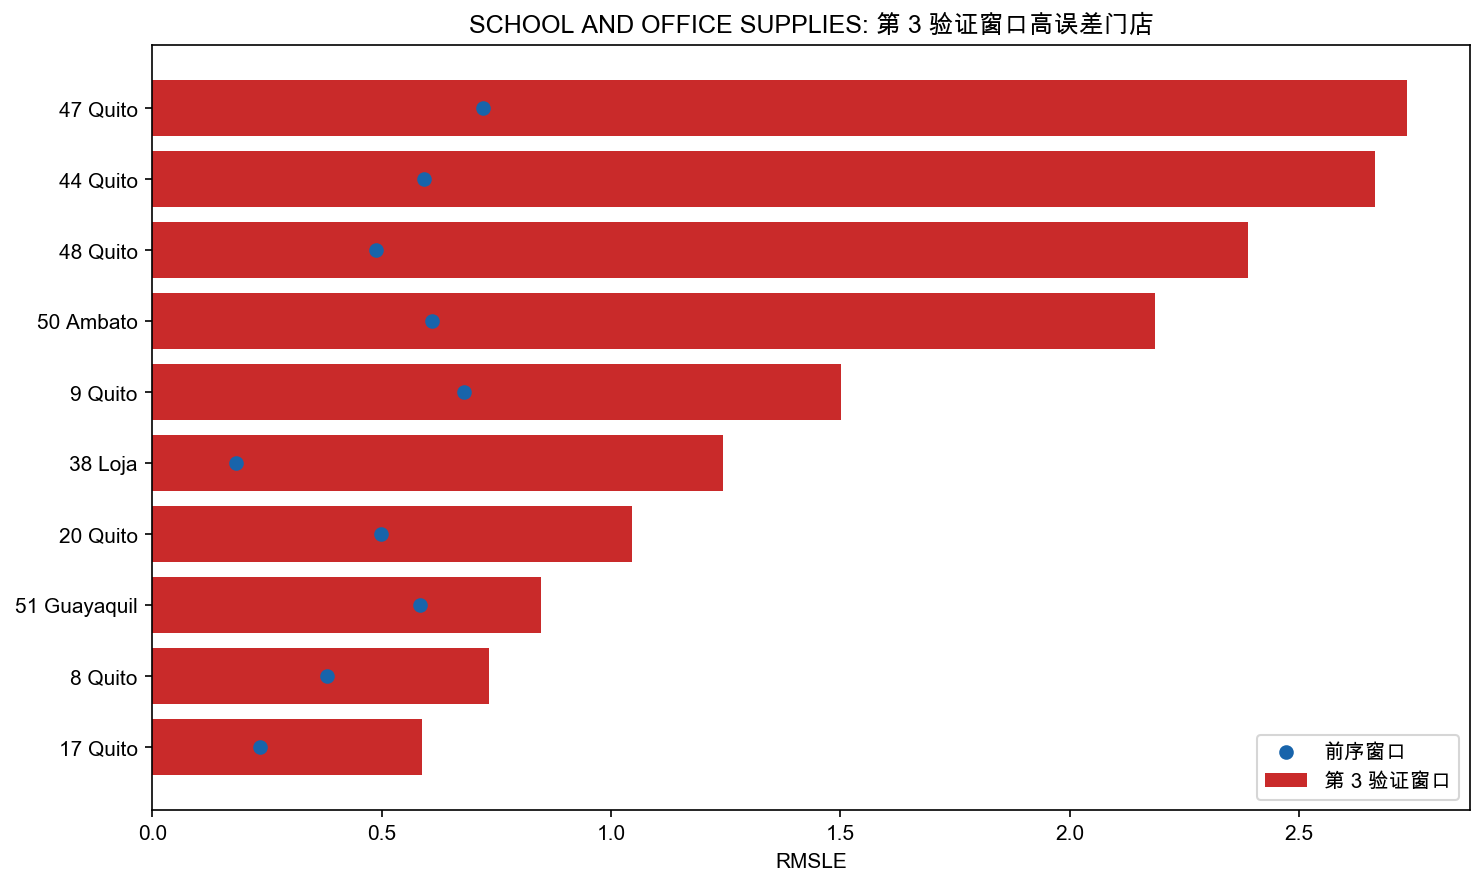
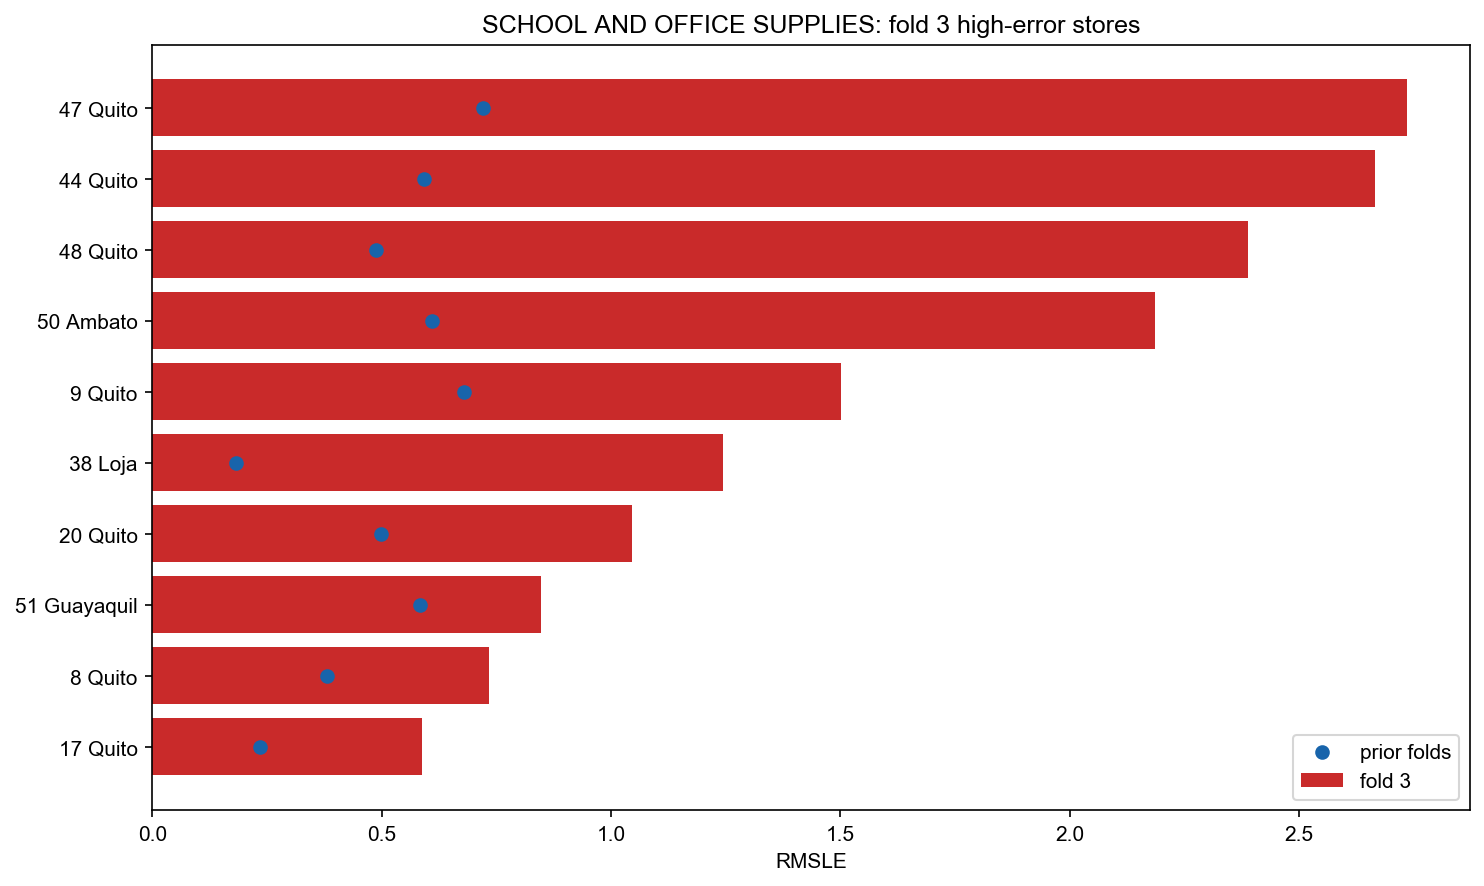
docs: align family focus report style

Changed region(s): [[0.31, 0.0, 0.7749, 0.0609], [0.8369, 0.8228, 0.9919, 0.9142]]

diff --git a/src/store_sales/family_focus_analysis.py b/src/store_sales/family_focus_analysis.py
@@ -31,35 +31,35 @@ plt.rcParams["axes.unicode_minus"] = False
 DEFAULT_FAMILY = "SCHOOL AND OFFICE SUPPLIES"
 SUPPORTED_TARGET_FOLD = 3
 REPORT_COLUMN_NAMES = {
-    "fold_id": "验证窗口",
-    "row_count": "样本数",
+    "fold_id": "fold",
+    "row_count": "rows",
     "rmsle": "RMSLE",
-    "mean_actual_sales": "真实销量均值",
-    "mean_predicted_sales": "预测销量均值",
-    "mean_signed_error": "平均预测误差",
-    "mean_onpromotion": "促销数量均值",
+    "mean_actual_sales": "actual sales 均值",
+    "mean_predicted_sales": "predicted sales 均值",
+    "mean_signed_error": "signed error 均值",
+    "mean_onpromotion": "onpromotion 均值",
     "year": "年份",
     "month": "月份",
-    "total_sales": "总销量",
-    "promotion_sum": "促销数量合计",
-    "mean_sales": "销量均值",
-    "store_nbr": "门店编号",
+    "total_sales": "total sales",
+    "promotion_sum": "promotion sum",
+    "mean_sales": "sales 均值",
+    "store_nbr": "store_nbr",
     "city": "城市",
-    "store_type": "门店类型",
-    "cluster": "门店簇",
-    "promotion_bin": "促销分箱",
-    "fold3_row_count": "第 3 窗口样本数",
-    "fold3_rmsle": "第 3 窗口 RMSLE",
-    "prior_rmsle": "前序窗口 RMSLE",
+    "store_type": "store_type",
+    "cluster": "cluster",
+    "promotion_bin": "promotion bin",
+    "fold3_row_count": "fold 3 rows",
+    "fold3_rmsle": "fold 3 RMSLE",
+    "prior_rmsle": "prior folds RMSLE",
     "rmsle_delta": "RMSLE 差值",
-    "fold3_error_share": "第 3 窗口误差占比",
-    "fold3_mean_actual_sales": "第 3 窗口真实销量均值",
-    "fold3_mean_predicted_sales": "第 3 窗口预测销量均值",
-    "fold3_mean_onpromotion": "第 3 窗口促销数量均值",
-    "test_row_count": "测试期样本数",
-    "test_mean_onpromotion": "测试期促销数量均值",
-    "test_promotion_sum": "测试期促销数量合计",
-    "has_fold3_error_signal": "是否有第 3 窗口误差信号",
+    "fold3_error_share": "fold 3 误差占比",
+    "fold3_mean_actual_sales": "fold 3 actual sales 均值",
+    "fold3_mean_predicted_sales": "fold 3 predicted sales 均值",
+    "fold3_mean_onpromotion": "fold 3 onpromotion 均值",
+    "test_row_count": "test rows",
+    "test_mean_onpromotion": "test onpromotion 均值",
+    "test_promotion_sum": "test promotion sum",
+    "has_fold3_error_signal": "是否有 fold 3 误差信号",
 }
 
 
@@ -350,13 +350,13 @@ def plot_2017_daily(daily: pd.DataFrame, paths: FamilyFocusPaths, family: str) -
     train_part = daily[daily["period"] != "test"].copy()
     fig, ax_sales = plt.subplots(figsize=(14, 6))
     ax_promo = ax_sales.twinx()
-    ax_sales.plot(train_part["date"], train_part["total_sales"], color="#0b7285", linewidth=2, label="总销量")
-    ax_promo.plot(daily["date"], daily["promotion_sum"], color="#f08c00", linewidth=1.5, label="促销数量合计")
-    ax_sales.axvspan(pd.Timestamp("2017-07-31"), pd.Timestamp("2017-08-15"), color="#ffe066", alpha=0.25, label="第 3 验证窗口")
-    ax_sales.axvspan(pd.Timestamp("2017-08-16"), pd.Timestamp("2017-08-31"), color="#d0ebff", alpha=0.25, label="测试期")
-    ax_sales.set_title(f"{family}: 2017 年每日销量与促销")
-    ax_sales.set_ylabel("总销量")
-    ax_promo.set_ylabel("促销数量合计")
+    ax_sales.plot(train_part["date"], train_part["total_sales"], color="#0b7285", linewidth=2, label="total sales")
+    ax_promo.plot(daily["date"], daily["promotion_sum"], color="#f08c00", linewidth=1.5, label="promotion sum")
+    ax_sales.axvspan(pd.Timestamp("2017-07-31"), pd.Timestamp("2017-08-15"), color="#ffe066", alpha=0.25, label="fold 3")
+    ax_sales.axvspan(pd.Timestamp("2017-08-16"), pd.Timestamp("2017-08-31"), color="#d0ebff", alpha=0.25, label="test period")
+    ax_sales.set_title(f"{family}: 2017 daily sales 与 promotion")
+    ax_sales.set_ylabel("total sales")
+    ax_promo.set_ylabel("promotion sum")
     ax_sales.xaxis.set_major_locator(mdates.MonthLocator(interval=1))
     ax_sales.xaxis.set_major_formatter(mdates.DateFormatter("%Y-%m"))
     ax_sales.legend(loc="upper left")
@@ -369,12 +369,12 @@ def plot_monthly_history(monthly: pd.DataFrame, paths: FamilyFocusPaths, family:
     fig, ax = plt.subplots(figsize=(12, 6))
     for year, frame in monthly.groupby("year", observed=True):
         ax.plot(frame["month"], frame["total_sales"], marker="o", linewidth=1.8, label=str(year))
-    ax.set_title(f"{family}: 按年份对比月度总销量")
+    ax.set_title(f"{family}: monthly total sales by year")
     ax.set_xlabel("月份")
-    ax.set_ylabel("总销量")
+    ax.set_ylabel("total sales")
     ax.set_xticks(range(1, 13))
     ax.grid(axis="y", alpha=0.25)
-    ax.legend(title="年份", ncols=3)
+    ax.legend(title="year", ncols=3)
     save_plot(paths.figures_dir / "monthly_sales_by_year.png")
 
 
@@ -382,9 +382,9 @@ def plot_fold3_top_stores(store_error: pd.DataFrame, paths: FamilyFocusPaths, fa
     top = store_error.head(10).sort_values("fold3_rmsle")
     labels = top["store_nbr"].astype(str) + " " + top["city"].astype(str)
     fig, ax = plt.subplots(figsize=(10, 6))
-    ax.barh(labels, top["fold3_rmsle"], color="#c92a2a", label="第 3 验证窗口")
-    ax.scatter(top["prior_rmsle"], labels, color="#1864ab", label="前序窗口", zorder=3)
-    ax.set_title(f"{family}: 第 3 验证窗口高误差门店")
+    ax.barh(labels, top["fold3_rmsle"], color="#c92a2a", label="fold 3")
+    ax.scatter(top["prior_rmsle"], labels, color="#1864ab", label="prior folds", zorder=3)
+    ax.set_title(f"{family}: fold 3 high-error stores")
     ax.set_xlabel("RMSLE")
     ax.legend()
     save_plot(paths.figures_dir / "fold3_top_store_error.png")
@@ -481,27 +481,27 @@ def write_report(
     store_promotion_display = rename_columns_for_report(store_promotion_error[store_promotion_columns])
     new_store_promotion_display = rename_columns_for_report(new_store_promotion[new_columns])
     top_test_overlap_display = rename_columns_for_report(top_test_overlap[test_columns])
-    if "是否有第 3 窗口误差信号" in top_test_overlap_display.columns:
-        top_test_overlap_display["是否有第 3 窗口误差信号"] = top_test_overlap_display["是否有第 3 窗口误差信号"].map(
+    if "是否有 fold 3 误差信号" in top_test_overlap_display.columns:
+        top_test_overlap_display["是否有 fold 3 误差信号"] = top_test_overlap_display["是否有 fold 3 误差信号"].map(
             {True: "是", False: "否"}
         )
 
     lines = [
-        f"# 品类单独分析：{family}",
+        f"# Family 单独分析：{family}",
         "",
-        "本报告是在第 3 验证窗口交叉误差分析之后，对单个品类做诊断。它只用于定位问题，不改变模型，也不生成新的提交文件。",
+        "本报告是在 fold 3 交叉误差分析之后，对单个 family 做诊断。它只用于定位问题，不改变模型，也不生成新的 submission。",
         "",
         "## 核心发现",
         "",
-        f"- 2017 年 8 月该品类总销量为 `{focus_2017_august['total_sales']:.0f}`，明显高于 2017 年 7 月和历史 8 月低位。",
-        f"- 第 3 验证窗口误差集中在 `{family}` 的高促销、type A / Quito-Ambato 门店片段。",
-        f"- 第 3 验证窗口误差最高的门店片段是 `{store_error.iloc[0]['city']}` 的门店 `{int(store_error.iloc[0]['store_nbr'])}`。",
-        "- 测试期 type A 门店仍有较高促销，因此这个品类仍然是提交风险点。",
+        f"- 2017 年 8 月该 family total sales 为 `{focus_2017_august['total_sales']:.0f}`，明显高于 2017 年 7 月和历史 8 月低位。",
+        f"- fold 3 误差集中在 `{family}` 的 high promotion、type A / Quito-Ambato store 片段。",
+        f"- fold 3 误差最高的 store 片段是 `{store_error.iloc[0]['city']}` 的 store `{int(store_error.iloc[0]['store_nbr'])}`。",
+        "- test period 中 type A stores 仍有较高 promotion，因此这个 family 仍然是 submission risk。",
     ]
     if top_new is not None:
         lines.append(
-            f"- 最强第 3 验证窗口新组合是门店 `{int(top_new['store_nbr'])}` + 促销分箱 `{top_new['promotion_bin']}`，"
-            f"真实销量均值 `{top_new['fold3_mean_actual_sales']:.1f}`，预测销量均值 `{top_new['fold3_mean_predicted_sales']:.1f}`。"
+            f"- 最强 fold 3 新组合是 store `{int(top_new['store_nbr'])}` + promotion bin `{top_new['promotion_bin']}`，"
+            f"actual sales 均值 `{top_new['fold3_mean_actual_sales']:.1f}`，predicted sales 均值 `{top_new['fold3_mean_predicted_sales']:.1f}`。"
         )
 
     lines.extend(
@@ -515,33 +515,33 @@ def write_report(
             "",
             dataframe_to_markdown(monthly_display, max_rows=len(monthly_display)),
             "",
-            "## 第 3 验证窗口门店误差",
+            "## Fold 3 Store Error",
             "",
             dataframe_to_markdown(store_display),
             "",
-            "## 第 3 验证窗口门店促销误差",
+            "## Fold 3 Store-Promotion Error",
             "",
-            "这张表优先展示能和前序窗口对比的片段。只在第 3 验证窗口出现的高促销组合见下一张表。",
+            "这张表优先展示能和 prior folds 对比的片段。只在 fold 3 出现的 high-promotion 组合见下一张表。",
             "",
             dataframe_to_markdown(store_promotion_display),
             "",
-            "## 第 3 验证窗口新出现的门店促销组合",
+            "## Fold 3 新出现的 Store-Promotion Segments",
             "",
-            "这些门店-促销组合在该品类的第 3 验证窗口中出现，但没有出现在前序窗口中。",
+            "这些 store-promotion combinations 在该 family 的 fold 3 中出现，但没有出现在 prior folds 中。",
             "",
             dataframe_to_markdown(new_store_promotion_display),
             "",
-            "## 测试期促销风险重叠",
+            "## Test Promotion Risk Overlap",
             "",
             dataframe_to_markdown(top_test_overlap_display, max_rows=10),
             "",
             "## 图表",
             "",
-            "![2017 年每日销量与促销](figures/daily_2017_sales_promotion.png)",
+            "![2017 daily sales 与 promotion](figures/daily_2017_sales_promotion.png)",
             "",
-            "![按年份对比月度销量](figures/monthly_sales_by_year.png)",
+            "![Monthly sales by year](figures/monthly_sales_by_year.png)",
             "",
-            "![第 3 验证窗口高误差门店](figures/fold3_top_store_error.png)",
+            "![Fold 3 high-error stores](figures/fold3_top_store_error.png)",
             "",
             "## 生成的表格",
             "",
@@ -555,9 +555,9 @@ def write_report(
             "",
             "## 解释与判断",
             "",
-            "- 现有证据支持这是该品类的局部问题，不适合继续用泛化低需求特征处理。",
-            "- 第 3 验证窗口中，高促销、type A / Quito-Ambato 门店片段存在明显低估。",
-            "- 下一步特征实验应优先针对该品类的 8 月时间效应和促销响应；“开学季”只能作为待验证假设。",
+            "- 现有证据支持这是该 family 的局部问题，不适合继续用 broad low-demand features 处理。",
+            "- fold 3 中，high promotion、type A / Quito-Ambato store 片段存在明显低估。",
+            "- 下一步 feature experiment 应优先针对该 family 的 8 月时间效应和 promotion response；“开学季”只能作为待验证假设。",
             "- 本报告是诊断报告，只能说明数据模式和模型误差集中位置，不能证明外部业务原因。",
         ]
     )

diff --git a/reports/family_focus/school_office_supplies/family_focus_report.md b/reports/family_focus/school_office_supplies/family_focus_report.md
@@ -1,18 +1,18 @@
-# 品类单独分析：SCHOOL AND OFFICE SUPPLIES
+# Family 单独分析：SCHOOL AND OFFICE SUPPLIES
 
-本报告是在第 3 验证窗口交叉误差分析之后，对单个品类做诊断。它只用于定位问题，不改变模型，也不生成新的提交文件。
+本报告是在 fold 3 交叉误差分析之后，对单个 family 做诊断。它只用于定位问题，不改变模型，也不生成新的 submission。
 
 ## 核心发现
 
-- 2017 年 8 月该品类总销量为 `50169`，明显高于 2017 年 7 月和历史 8 月低位。
-- 第 3 验证窗口误差集中在 `SCHOOL AND OFFICE SUPPLIES` 的高促销、type A / Quito-Ambato 门店片段。
-- 第 3 验证窗口误差最高的门店片段是 `Quito` 的门店 `47`。
-- 测试期 type A 门店仍有较高促销，因此这个品类仍然是提交风险点。
-- 最强第 3 验证窗口新组合是门店 `47` + 促销分箱 `11-50`，真实销量均值 `538.4`，预测销量均值 `33.6`。
+- 2017 年 8 月该 family total sales 为 `50169`，明显高于 2017 年 7 月和历史 8 月低位。
+- fold 3 误差集中在 `SCHOOL AND OFFICE SUPPLIES` 的 high promotion、type A / Quito-Ambato store 片段。
+- fold 3 误差最高的 store 片段是 `Quito` 的 store `47`。
+- test period 中 type A stores 仍有较高 promotion，因此这个 family 仍然是 submission risk。
+- 最强 fold 3 新组合是 store `47` + promotion bin `11-50`，actual sales 均值 `538.4`，predicted sales 均值 `33.6`。
 
 ## 验证窗口汇总
 
-| 验证窗口 | 样本数 | RMSLE | 真实销量均值 | 预测销量均值 | 平均预测误差 | 促销数量均值 |
+| fold | rows | RMSLE | actual sales 均值 | predicted sales 均值 | signed error 均值 | onpromotion 均值 |
 | --- | --- | --- | --- | --- | --- | --- |
 | 1 | 864 | 0.434057 | 1.366898 | 1.274311 | -0.092587 | 0.002315 |
 | 2 | 864 | 0.641590 | 7.063657 | 1.332382 | -5.731276 | 0.250000 |
@@ -20,7 +20,7 @@
 
 ## 月度历史快照
 
-| 年份 | 月份 | 总销量 | 促销数量合计 | 销量均值 | 促销数量均值 |
+| 年份 | 月份 | total sales | promotion sum | sales 均值 | onpromotion 均值 |
 | --- | --- | --- | --- | --- | --- |
 | 2013 | 9 | 0.000000 | 0 | 0.000000 | 0.000000 |
 | 2014 | 3 | 2235.000000 | 0 | 1.335125 | 0.000000 |
@@ -43,9 +43,9 @@
 | 2017 | 7 | 8797.000000 | 290 | 5.255078 | 0.173238 |
 | 2017 | 8 | 50169.000000 | 1913 | 61.937038 | 2.361728 |
 
-## 第 3 验证窗口门店误差
+## Fold 3 Store Error
 
-| 门店编号 | 城市 | 门店类型 | 门店簇 | 第 3 窗口 RMSLE | 前序窗口 RMSLE | RMSLE 差值 | 第 3 窗口真实销量均值 | 第 3 窗口预测销量均值 | 第 3 窗口促销数量均值 |
+| store_nbr | 城市 | store_type | cluster | fold 3 RMSLE | prior folds RMSLE | RMSLE 差值 | fold 3 actual sales 均值 | fold 3 predicted sales 均值 | fold 3 onpromotion 均值 |
 | --- | --- | --- | --- | --- | --- | --- | --- | --- | --- |
 | 47 | Quito | A | 14 | 2.735861 | 0.721499 | 2.014362 | 523.437500 | 32.604855 | 12.000000 |
 | 44 | Quito | A | 5 | 2.665396 | 0.591897 | 2.073498 | 393.750000 | 25.889929 | 12.000000 |
@@ -58,11 +58,11 @@
 | 51 | Guayaquil | A | 17 | 0.847989 | 0.584243 | 0.263745 | 3.875000 | 4.396971 | 0.000000 |
 | 17 | Quito | C | 12 | 0.588754 | 0.235964 | 0.352790 | 11.562500 | 4.956986 | 2.000000 |
 
-## 第 3 验证窗口门店促销误差
+## Fold 3 Store-Promotion Error
 
-这张表优先展示能和前序窗口对比的片段。只在第 3 验证窗口出现的高促销组合见下一张表。
+这张表优先展示能和 prior folds 对比的片段。只在 fold 3 出现的 high-promotion 组合见下一张表。
 
-| 门店编号 | 城市 | 门店类型 | 促销分箱 | 第 3 窗口样本数 | 第 3 窗口 RMSLE | 前序窗口 RMSLE | RMSLE 差值 | 第 3 窗口真实销量均值 | 第 3 窗口预测销量均值 |
+| store_nbr | 城市 | store_type | promotion bin | fold 3 rows | fold 3 RMSLE | prior folds RMSLE | RMSLE 差值 | fold 3 actual sales 均值 | fold 3 predicted sales 均值 |
 | --- | --- | --- | --- | --- | --- | --- | --- | --- | --- |
 | 38 | Loja | D | 0 | 16 | 1.244050 | 0.182788 | 1.061263 | 4.937500 | 0.208907 |
 | 9 | Quito | B | 6-10 | 15 | 1.501075 | 0.893248 | 0.607827 | 145.200000 | 31.893541 |
@@ -75,11 +75,11 @@
 | 26 | Guayaquil | D | 0 | 16 | 0.505743 | 0.428631 | 0.077112 | 0.812500 | 0.446550 |
 | 31 | Babahoyo | B | 0 | 15 | 0.631314 | 0.568273 | 0.063041 | 1.466667 | 1.639388 |
 
-## 第 3 验证窗口新出现的门店促销组合
+## Fold 3 新出现的 Store-Promotion Segments
 
-这些门店-促销组合在该品类的第 3 验证窗口中出现，但没有出现在前序窗口中。
+这些 store-promotion combinations 在该 family 的 fold 3 中出现，但没有出现在 prior folds 中。
 
-| 门店编号 | 城市 | 门店类型 | 促销分箱 | 第 3 窗口样本数 | 第 3 窗口 RMSLE | 第 3 窗口误差占比 | 第 3 窗口真实销量均值 | 第 3 窗口预测销量均值 |
+| store_nbr | 城市 | store_type | promotion bin | fold 3 rows | fold 3 RMSLE | fold 3 误差占比 | fold 3 actual sales 均值 | fold 3 predicted sales 均值 |
 | --- | --- | --- | --- | --- | --- | --- | --- | --- |
 | 47 | Quito | A | 11-50 | 15 | 2.733045 | 0.172712 | 538.400000 | 33.601619 |
 | 44 | Quito | A | 11-50 | 15 | 2.697563 | 0.168257 | 414.200000 | 26.982084 |
@@ -92,9 +92,9 @@
 | 15 | Ibarra | C | 2-5 | 7 | 0.657461 | 0.004664 | 9.857143 | 7.222817 |
 | 11 | Cayambe | B | 6-10 | 9 | 0.509424 | 0.003600 | 27.666667 | 19.293776 |
 
-## 测试期促销风险重叠
+## Test Promotion Risk Overlap
 
-| 门店编号 | 城市 | 门店类型 | 促销分箱 | 测试期样本数 | 测试期促销数量均值 | 测试期促销数量合计 | 是否有第 3 窗口误差信号 | 第 3 窗口 RMSLE | 第 3 窗口误差占比 |
+| store_nbr | 城市 | store_type | promotion bin | test rows | test onpromotion 均值 | test promotion sum | 是否有 fold 3 误差信号 | fold 3 RMSLE | fold 3 误差占比 |
 | --- | --- | --- | --- | --- | --- | --- | --- | --- | --- |
 | 50 | Ambato | A | 11-50 | 16 | 12.687500 | 203 | 是 | 2.254764 | 0.117552 |
 | 46 | Quito | A | 11-50 | 16 | 12.687500 | 203 | 是 | 0.588554 | 0.006942 |
@@ -109,11 +109,11 @@
 
 ## 图表
 
-![2017 年每日销量与促销](figures/daily_2017_sales_promotion.png)
+![2017 daily sales 与 promotion](figures/daily_2017_sales_promotion.png)
 
-![按年份对比月度销量](figures/monthly_sales_by_year.png)
+![Monthly sales by year](figures/monthly_sales_by_year.png)
 
-![第 3 验证窗口高误差门店](figures/fold3_top_store_error.png)
+![Fold 3 high-error stores](figures/fold3_top_store_error.png)
 
 ## 生成的表格
 
@@ -127,7 +127,7 @@
 
 ## 解释与判断
 
-- 现有证据支持这是该品类的局部问题，不适合继续用泛化低需求特征处理。
-- 第 3 验证窗口中，高促销、type A / Quito-Ambato 门店片段存在明显低估。
-- 下一步特征实验应优先针对该品类的 8 月时间效应和促销响应；“开学季”只能作为待验证假设。
+- 现有证据支持这是该 family 的局部问题，不适合继续用 broad low-demand features 处理。
+- fold 3 中，high promotion、type A / Quito-Ambato store 片段存在明显低估。
+- 下一步 feature experiment 应优先针对该 family 的 8 月时间效应和 promotion response；“开学季”只能作为待验证假设。
 - 本报告是诊断报告，只能说明数据模式和模型误差集中位置，不能证明外部业务原因。
